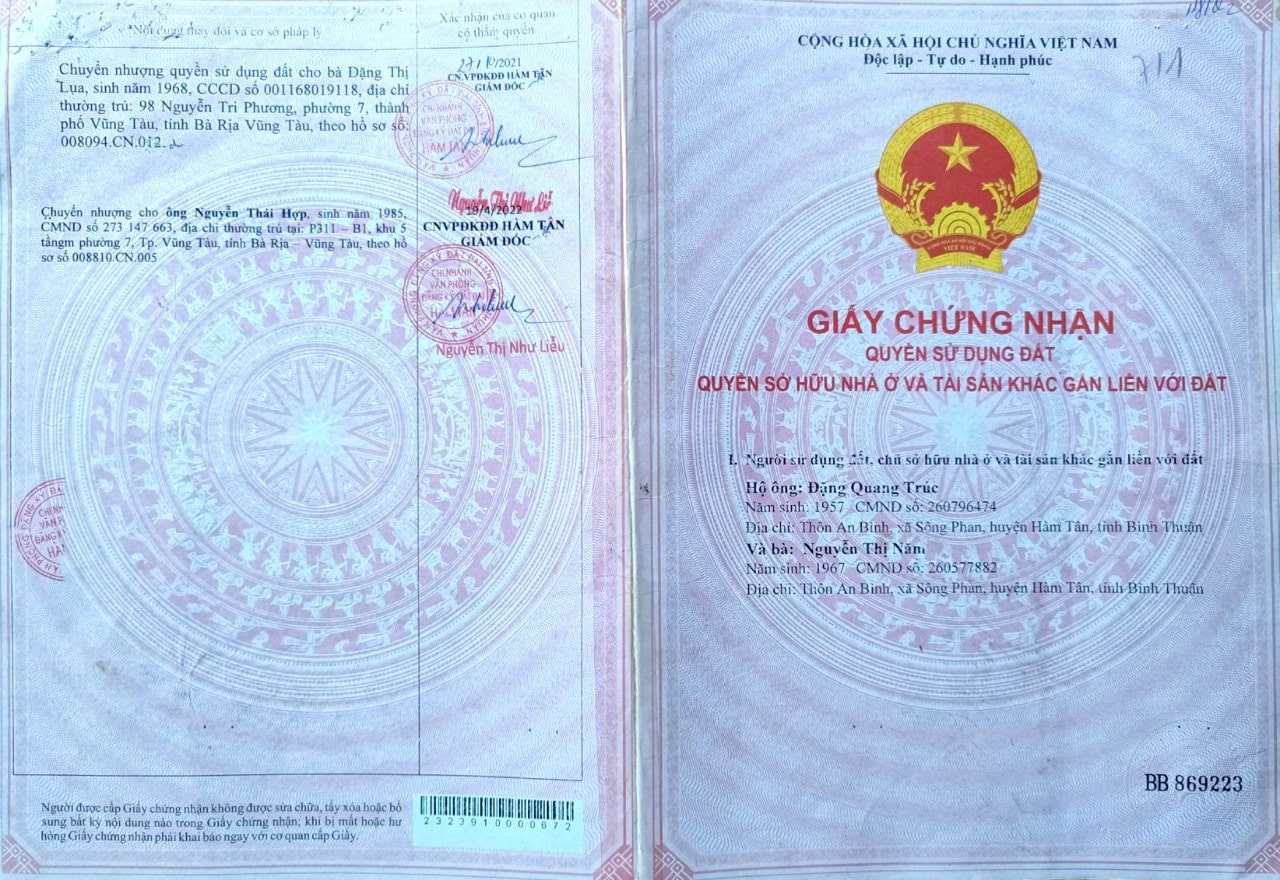
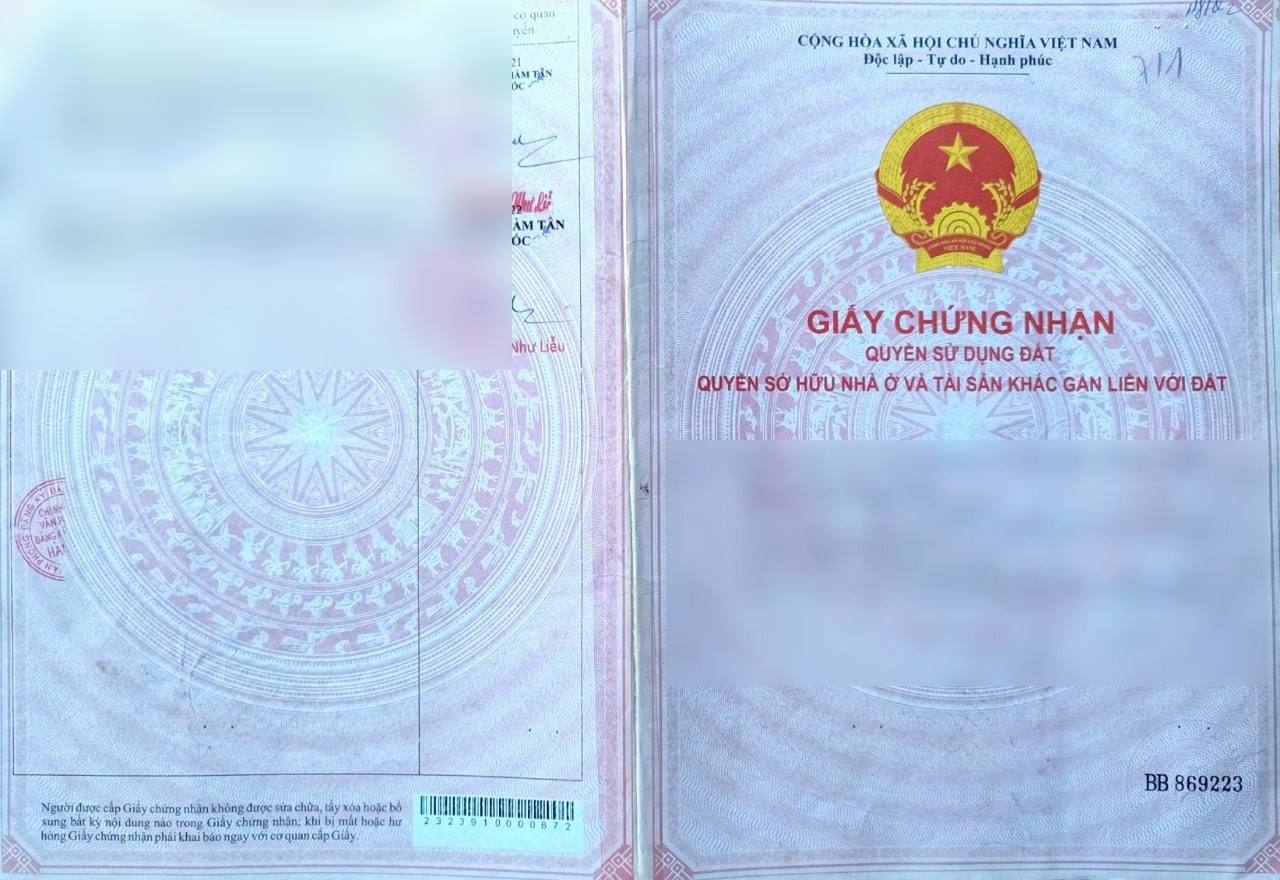
feat: redact PII from parcel proof galleries
Galleries shipped raw scans of land-title books, notarized contracts and tax receipts, leaking owner names, CMND/CCCD IDs, addresses, phones and tax codes. Replace each parcel gallery with non-PII visuals plus one redacted red-book cover (owner block blurred) as ownership proof, and drop the rest from each frontmatter images list.

Add scripts/redact-pii.mjs documenting the one-off redaction jobs.

diff --git a/src/content/parcels/vuon-buoi-suoi-rao-2-7-ha.md b/src/content/parcels/vuon-buoi-suoi-rao-2-7-ha.md
@@ -65,51 +65,7 @@ images:
   - src: "../../assets/parcels/vuon-buoi-suoi-rao-2-7-ha/12.jpg"
     alt: "Vườn Bưởi Suối Rao 2.7 ha — ảnh 12"
   - src: "../../assets/parcels/vuon-buoi-suoi-rao-2-7-ha/13.jpg"
-    alt: "Vườn Bưởi Suối Rao 2.7 ha — ảnh 13"
-  - src: "../../assets/parcels/vuon-buoi-suoi-rao-2-7-ha/14.jpg"
-    alt: "Vườn Bưởi Suối Rao 2.7 ha — ảnh 14"
-  - src: "../../assets/parcels/vuon-buoi-suoi-rao-2-7-ha/15.jpg"
-    alt: "Vườn Bưởi Suối Rao 2.7 ha — ảnh 15"
-  - src: "../../assets/parcels/vuon-buoi-suoi-rao-2-7-ha/16.jpg"
-    alt: "Vườn Bưởi Suối Rao 2.7 ha — ảnh 16"
-  - src: "../../assets/parcels/vuon-buoi-suoi-rao-2-7-ha/17.jpg"
-    alt: "Vườn Bưởi Suối Rao 2.7 ha — ảnh 17"
-  - src: "../../assets/parcels/vuon-buoi-suoi-rao-2-7-ha/18.jpg"
-    alt: "Vườn Bưởi Suối Rao 2.7 ha — ảnh 18"
-  - src: "../../assets/parcels/vuon-buoi-suoi-rao-2-7-ha/19.jpg"
-    alt: "Vườn Bưởi Suối Rao 2.7 ha — ảnh 19"
-  - src: "../../assets/parcels/vuon-buoi-suoi-rao-2-7-ha/20.jpg"
-    alt: "Vườn Bưởi Suối Rao 2.7 ha — ảnh 20"
-  - src: "../../assets/parcels/vuon-buoi-suoi-rao-2-7-ha/21.jpg"
-    alt: "Vườn Bưởi Suối Rao 2.7 ha — ảnh 21"
-  - src: "../../assets/parcels/vuon-buoi-suoi-rao-2-7-ha/22.jpg"
-    alt: "Vườn Bưởi Suối Rao 2.7 ha — ảnh 22"
-  - src: "../../assets/parcels/vuon-buoi-suoi-rao-2-7-ha/23.jpg"
-    alt: "Vườn Bưởi Suối Rao 2.7 ha — ảnh 23"
-  - src: "../../assets/parcels/vuon-buoi-suoi-rao-2-7-ha/24.jpg"
-    alt: "Vườn Bưởi Suối Rao 2.7 ha — ảnh 24"
-  - src: "../../assets/parcels/vuon-buoi-suoi-rao-2-7-ha/25.jpg"
-    alt: "Vườn Bưởi Suối Rao 2.7 ha — ảnh 25"
-  - src: "../../assets/parcels/vuon-buoi-suoi-rao-2-7-ha/26.jpg"
-    alt: "Vườn Bưởi Suối Rao 2.7 ha — ảnh 26"
-  - src: "../../assets/parcels/vuon-buoi-suoi-rao-2-7-ha/27.jpg"
-    alt: "Vườn Bưởi Suối Rao 2.7 ha — ảnh 27"
-  - src: "../../assets/parcels/vuon-buoi-suoi-rao-2-7-ha/28.jpg"
-    alt: "Vườn Bưởi Suối Rao 2.7 ha — ảnh 28"
-  - src: "../../assets/parcels/vuon-buoi-suoi-rao-2-7-ha/29.jpg"
-    alt: "Vườn Bưởi Suối Rao 2.7 ha — ảnh 29"
-  - src: "../../assets/parcels/vuon-buoi-suoi-rao-2-7-ha/30.jpg"
-    alt: "Vườn Bưởi Suối Rao 2.7 ha — ảnh 30"
-  - src: "../../assets/parcels/vuon-buoi-suoi-rao-2-7-ha/31.jpg"
-    alt: "Vườn Bưởi Suối Rao 2.7 ha — ảnh 31"
-  - src: "../../assets/parcels/vuon-buoi-suoi-rao-2-7-ha/32.jpg"
-    alt: "Vườn Bưởi Suối Rao 2.7 ha — ảnh 32"
-  - src: "../../assets/parcels/vuon-buoi-suoi-rao-2-7-ha/33.jpg"
-    alt: "Vườn Bưởi Suối Rao 2.7 ha — ảnh 33"
-  - src: "../../assets/parcels/vuon-buoi-suoi-rao-2-7-ha/34.jpg"
-    alt: "Vườn Bưởi Suối Rao 2.7 ha — ảnh 34"
-  - src: "../../assets/parcels/vuon-buoi-suoi-rao-2-7-ha/35.jpg"
-    alt: "Vườn Bưởi Suối Rao 2.7 ha — ảnh 35"
+    alt: "Vườn Bưởi Suối Rao 2.7 ha — sổ đỏ đã xác minh (che thông tin cá nhân)"
 suggestedParcels:
   - "long-tan-3-5-ha"
   - "binh-trung-1-5-ha"

diff --git a/src/content/parcels/binh-trung-1-5-ha.md b/src/content/parcels/binh-trung-1-5-ha.md
@@ -47,50 +47,8 @@ images:
     alt: "Bình Trung 1,5 ha — ảnh 2"
   - src: "../../assets/parcels/binh-trung-1-5-ha/03.jpg"
     alt: "Bình Trung 1,5 ha — ảnh 3"
-  - src: "../../assets/parcels/binh-trung-1-5-ha/04.jpg"
-    alt: "Bình Trung 1,5 ha — ảnh 4"
-  - src: "../../assets/parcels/binh-trung-1-5-ha/05.jpg"
-    alt: "Bình Trung 1,5 ha — ảnh 5"
-  - src: "../../assets/parcels/binh-trung-1-5-ha/06.jpg"
-    alt: "Bình Trung 1,5 ha — ảnh 6"
-  - src: "../../assets/parcels/binh-trung-1-5-ha/07.jpg"
-    alt: "Bình Trung 1,5 ha — ảnh 7"
   - src: "../../assets/parcels/binh-trung-1-5-ha/08.jpg"
-    alt: "Bình Trung 1,5 ha — ảnh 8"
-  - src: "../../assets/parcels/binh-trung-1-5-ha/09.jpg"
-    alt: "Bình Trung 1,5 ha — ảnh 9"
-  - src: "../../assets/parcels/binh-trung-1-5-ha/10.jpg"
-    alt: "Bình Trung 1,5 ha — ảnh 10"
-  - src: "../../assets/parcels/binh-trung-1-5-ha/11.jpg"
-    alt: "Bình Trung 1,5 ha — ảnh 11"
-  - src: "../../assets/parcels/binh-trung-1-5-ha/12.jpg"
-    alt: "Bình Trung 1,5 ha — ảnh 12"
-  - src: "../../assets/parcels/binh-trung-1-5-ha/13.jpg"
-    alt: "Bình Trung 1,5 ha — ảnh 13"
-  - src: "../../assets/parcels/binh-trung-1-5-ha/14.jpg"
-    alt: "Bình Trung 1,5 ha — ảnh 14"
-  - src: "../../assets/parcels/binh-trung-1-5-ha/15.jpg"
-    alt: "Bình Trung 1,5 ha — ảnh 15"
-  - src: "../../assets/parcels/binh-trung-1-5-ha/16.jpg"
-    alt: "Bình Trung 1,5 ha — ảnh 16"
-  - src: "../../assets/parcels/binh-trung-1-5-ha/17.jpg"
-    alt: "Bình Trung 1,5 ha — ảnh 17"
-  - src: "../../assets/parcels/binh-trung-1-5-ha/18.jpg"
-    alt: "Bình Trung 1,5 ha — ảnh 18"
-  - src: "../../assets/parcels/binh-trung-1-5-ha/19.jpg"
-    alt: "Bình Trung 1,5 ha — ảnh 19"
-  - src: "../../assets/parcels/binh-trung-1-5-ha/20.jpg"
-    alt: "Bình Trung 1,5 ha — ảnh 20"
-  - src: "../../assets/parcels/binh-trung-1-5-ha/21.jpg"
-    alt: "Bình Trung 1,5 ha — ảnh 21"
-  - src: "../../assets/parcels/binh-trung-1-5-ha/22.jpg"
-    alt: "Bình Trung 1,5 ha — ảnh 22"
-  - src: "../../assets/parcels/binh-trung-1-5-ha/23.jpg"
-    alt: "Bình Trung 1,5 ha — ảnh 23"
-  - src: "../../assets/parcels/binh-trung-1-5-ha/24.jpg"
-    alt: "Bình Trung 1,5 ha — ảnh 24"
-  - src: "../../assets/parcels/binh-trung-1-5-ha/25.jpg"
-    alt: "Bình Trung 1,5 ha — ảnh 25"
+    alt: "Bình Trung 1,5 ha — sổ đỏ đã xác minh (che thông tin cá nhân)"
 suggestedParcels:
   - "long-tan-3-5-ha"
   - "vuon-buoi-suoi-rao-2-7-ha"

diff --git a/src/content/parcels/song-phan-2-9ha.md b/src/content/parcels/song-phan-2-9ha.md
@@ -40,38 +40,8 @@ zaloMessage: "Chào anh/chị, em muốn hỏi giá và pháp lý lô Sông Phan
 images:
   - src: "../../assets/parcels/song-phan-2-9ha/01.jpg"
     alt: "Sông Phan 2,9ha — ảnh 1"
-  - src: "../../assets/parcels/song-phan-2-9ha/02.jpg"
-    alt: "Sông Phan 2,9ha — ảnh 2"
-  - src: "../../assets/parcels/song-phan-2-9ha/03.jpg"
-    alt: "Sông Phan 2,9ha — ảnh 3"
   - src: "../../assets/parcels/song-phan-2-9ha/04.jpg"
-    alt: "Sông Phan 2,9ha — ảnh 4"
-  - src: "../../assets/parcels/song-phan-2-9ha/05.jpg"
-    alt: "Sông Phan 2,9ha — ảnh 5"
-  - src: "../../assets/parcels/song-phan-2-9ha/06.jpg"
-    alt: "Sông Phan 2,9ha — ảnh 6"
-  - src: "../../assets/parcels/song-phan-2-9ha/07.jpg"
-    alt: "Sông Phan 2,9ha — ảnh 7"
-  - src: "../../assets/parcels/song-phan-2-9ha/08.jpg"
-    alt: "Sông Phan 2,9ha — ảnh 8"
-  - src: "../../assets/parcels/song-phan-2-9ha/09.jpg"
-    alt: "Sông Phan 2,9ha — ảnh 9"
-  - src: "../../assets/parcels/song-phan-2-9ha/10.jpg"
-    alt: "Sông Phan 2,9ha — ảnh 10"
-  - src: "../../assets/parcels/song-phan-2-9ha/11.jpg"
-    alt: "Sông Phan 2,9ha — ảnh 11"
-  - src: "../../assets/parcels/song-phan-2-9ha/12.jpg"
-    alt: "Sông Phan 2,9ha — ảnh 12"
-  - src: "../../assets/parcels/song-phan-2-9ha/13.jpg"
-    alt: "Sông Phan 2,9ha — ảnh 13"
-  - src: "../../assets/parcels/song-phan-2-9ha/14.jpg"
-    alt: "Sông Phan 2,9ha — ảnh 14"
-  - src: "../../assets/parcels/song-phan-2-9ha/15.jpg"
-    alt: "Sông Phan 2,9ha — ảnh 15"
-  - src: "../../assets/parcels/song-phan-2-9ha/16.jpg"
-    alt: "Sông Phan 2,9ha — ảnh 16"
-  - src: "../../assets/parcels/song-phan-2-9ha/17.jpg"
-    alt: "Sông Phan 2,9ha — ảnh 17"
+    alt: "Sông Phan 2,9ha — sổ đỏ đã xác minh (che thông tin cá nhân)"
 suggestedParcels:
   - "phu-yen-58-ha"
   - "long-tan-3-5-ha"

diff --git a/src/content/parcels/long-tan-3-5-ha.md b/src/content/parcels/long-tan-3-5-ha.md
@@ -49,27 +49,7 @@ images:
   - src: "../../assets/parcels/long-tan-3-5-ha/03.jpg"
     alt: "Long Tân 3,5 ha — ảnh 3"
   - src: "../../assets/parcels/long-tan-3-5-ha/04.jpg"
-    alt: "Long Tân 3,5 ha — ảnh 4"
-  - src: "../../assets/parcels/long-tan-3-5-ha/05.jpg"
-    alt: "Long Tân 3,5 ha — ảnh 5"
-  - src: "../../assets/parcels/long-tan-3-5-ha/06.jpg"
-    alt: "Long Tân 3,5 ha — ảnh 6"
-  - src: "../../assets/parcels/long-tan-3-5-ha/07.jpg"
-    alt: "Long Tân 3,5 ha — ảnh 7"
-  - src: "../../assets/parcels/long-tan-3-5-ha/08.jpg"
-    alt: "Long Tân 3,5 ha — ảnh 8"
-  - src: "../../assets/parcels/long-tan-3-5-ha/09.jpg"
-    alt: "Long Tân 3,5 ha — ảnh 9"
-  - src: "../../assets/parcels/long-tan-3-5-ha/10.jpg"
-    alt: "Long Tân 3,5 ha — ảnh 10"
-  - src: "../../assets/parcels/long-tan-3-5-ha/11.jpg"
-    alt: "Long Tân 3,5 ha — ảnh 11"
-  - src: "../../assets/parcels/long-tan-3-5-ha/12.jpg"
-    alt: "Long Tân 3,5 ha — ảnh 12"
-  - src: "../../assets/parcels/long-tan-3-5-ha/13.jpg"
-    alt: "Long Tân 3,5 ha — ảnh 13"
-  - src: "../../assets/parcels/long-tan-3-5-ha/14.jpg"
-    alt: "Long Tân 3,5 ha — ảnh 14"
+    alt: "Long Tân 3,5 ha — sổ đỏ đã xác minh (che thông tin cá nhân)"
 suggestedParcels:
   - "vuon-buoi-suoi-rao-2-7-ha"
   - "song-phan-2-9ha"

diff --git a/src/content/parcels/phu-yen-58-ha.md b/src/content/parcels/phu-yen-58-ha.md
@@ -38,24 +38,8 @@ legalNotes:
   - "Giao dịch công chứng theo quy định; hồ sơ pháp lý, video và hình thực tế được cung cấp qua Zalo khi trao đổi."
 zaloMessage: "Chào anh/chị, em muốn hỏi giá và pháp lý lô Phú Yên 58 ha."
 images:
-  - src: "../../assets/parcels/phu-yen-58-ha/01.jpg"
-    alt: "Phú Yên 58 ha — ảnh 1"
   - src: "../../assets/parcels/phu-yen-58-ha/02.jpg"
-    alt: "Phú Yên 58 ha — ảnh 2"
-  - src: "../../assets/parcels/phu-yen-58-ha/03.jpg"
-    alt: "Phú Yên 58 ha — ảnh 3"
-  - src: "../../assets/parcels/phu-yen-58-ha/04.jpg"
-    alt: "Phú Yên 58 ha — ảnh 4"
-  - src: "../../assets/parcels/phu-yen-58-ha/05.jpg"
-    alt: "Phú Yên 58 ha — ảnh 5"
-  - src: "../../assets/parcels/phu-yen-58-ha/06.jpg"
-    alt: "Phú Yên 58 ha — ảnh 6"
-  - src: "../../assets/parcels/phu-yen-58-ha/07.jpg"
-    alt: "Phú Yên 58 ha — ảnh 7"
-  - src: "../../assets/parcels/phu-yen-58-ha/08.jpg"
-    alt: "Phú Yên 58 ha — ảnh 8"
-  - src: "../../assets/parcels/phu-yen-58-ha/09.jpg"
-    alt: "Phú Yên 58 ha — ảnh 9"
+    alt: "Phú Yên 58 ha — sổ đỏ đã xác minh (che thông tin cá nhân)"
 suggestedParcels:
   - "3-3-sao-hoa-long"
   - "binh-trung-1-5-ha"

diff --git a/src/content/parcels/di-linh-5-sao.md b/src/content/parcels/di-linh-5-sao.md
@@ -47,21 +47,7 @@ images:
   - src: "../../assets/parcels/di-linh-5-sao/03.jpg"
     alt: "Di Linh 5 sào — ảnh 3"
   - src: "../../assets/parcels/di-linh-5-sao/04.jpg"
-    alt: "Di Linh 5 sào — ảnh 4"
-  - src: "../../assets/parcels/di-linh-5-sao/05.jpg"
-    alt: "Di Linh 5 sào — ảnh 5"
-  - src: "../../assets/parcels/di-linh-5-sao/06.jpg"
-    alt: "Di Linh 5 sào — ảnh 6"
-  - src: "../../assets/parcels/di-linh-5-sao/07.jpg"
-    alt: "Di Linh 5 sào — ảnh 7"
-  - src: "../../assets/parcels/di-linh-5-sao/08.jpg"
-    alt: "Di Linh 5 sào — ảnh 8"
-  - src: "../../assets/parcels/di-linh-5-sao/09.jpg"
-    alt: "Di Linh 5 sào — ảnh 9"
-  - src: "../../assets/parcels/di-linh-5-sao/10.jpg"
-    alt: "Di Linh 5 sào — ảnh 10"
-  - src: "../../assets/parcels/di-linh-5-sao/11.jpg"
-    alt: "Di Linh 5 sào — ảnh 11"
+    alt: "Di Linh 5 sào — trích lục sổ đỏ (che thông tin cá nhân)"
 suggestedParcels:
   - "binh-trung-1-5-ha"
   - "vuon-buoi-suoi-rao-2-7-ha"

diff --git a/src/content/parcels/dong-so-huu-hoa-long.md b/src/content/parcels/dong-so-huu-hoa-long.md
@@ -41,15 +41,7 @@ images:
   - src: "../../assets/parcels/dong-so-huu-hoa-long/01.jpg"
     alt: "Đồng sở hữu Hòa Long — ảnh 1"
   - src: "../../assets/parcels/dong-so-huu-hoa-long/02.jpg"
-    alt: "Đồng sở hữu Hòa Long — ảnh 2"
-  - src: "../../assets/parcels/dong-so-huu-hoa-long/03.jpg"
-    alt: "Đồng sở hữu Hòa Long — ảnh 3"
-  - src: "../../assets/parcels/dong-so-huu-hoa-long/04.jpg"
-    alt: "Đồng sở hữu Hòa Long — ảnh 4"
-  - src: "../../assets/parcels/dong-so-huu-hoa-long/05.jpg"
-    alt: "Đồng sở hữu Hòa Long — ảnh 5"
-  - src: "../../assets/parcels/dong-so-huu-hoa-long/06.jpg"
-    alt: "Đồng sở hữu Hòa Long — ảnh 6"
+    alt: "Đồng sở hữu Hòa Long — sổ đỏ đã xác minh (che thông tin cá nhân)"
 suggestedParcels: []
 ---
 

diff --git a/src/content/parcels/3-3-sao-hoa-long.md b/src/content/parcels/3-3-sao-hoa-long.md
@@ -49,15 +49,7 @@ images:
   - src: "../../assets/parcels/3-3-sao-hoa-long/03.jpg"
     alt: "3,3 Sào Hòa Long — ảnh 3"
   - src: "../../assets/parcels/3-3-sao-hoa-long/04.jpg"
-    alt: "3,3 Sào Hòa Long — ảnh 4"
-  - src: "../../assets/parcels/3-3-sao-hoa-long/05.jpg"
-    alt: "3,3 Sào Hòa Long — ảnh 5"
-  - src: "../../assets/parcels/3-3-sao-hoa-long/06.jpg"
-    alt: "3,3 Sào Hòa Long — ảnh 6"
-  - src: "../../assets/parcels/3-3-sao-hoa-long/07.jpg"
-    alt: "3,3 Sào Hòa Long — ảnh 7"
-  - src: "../../assets/parcels/3-3-sao-hoa-long/08.jpg"
-    alt: "3,3 Sào Hòa Long — ảnh 8"
+    alt: "3,3 Sào Hòa Long — sổ đỏ đã xác minh (che thông tin cá nhân)"
 suggestedParcels:
   - "di-linh-5-sao"
   - "binh-trung-1-5-ha"
